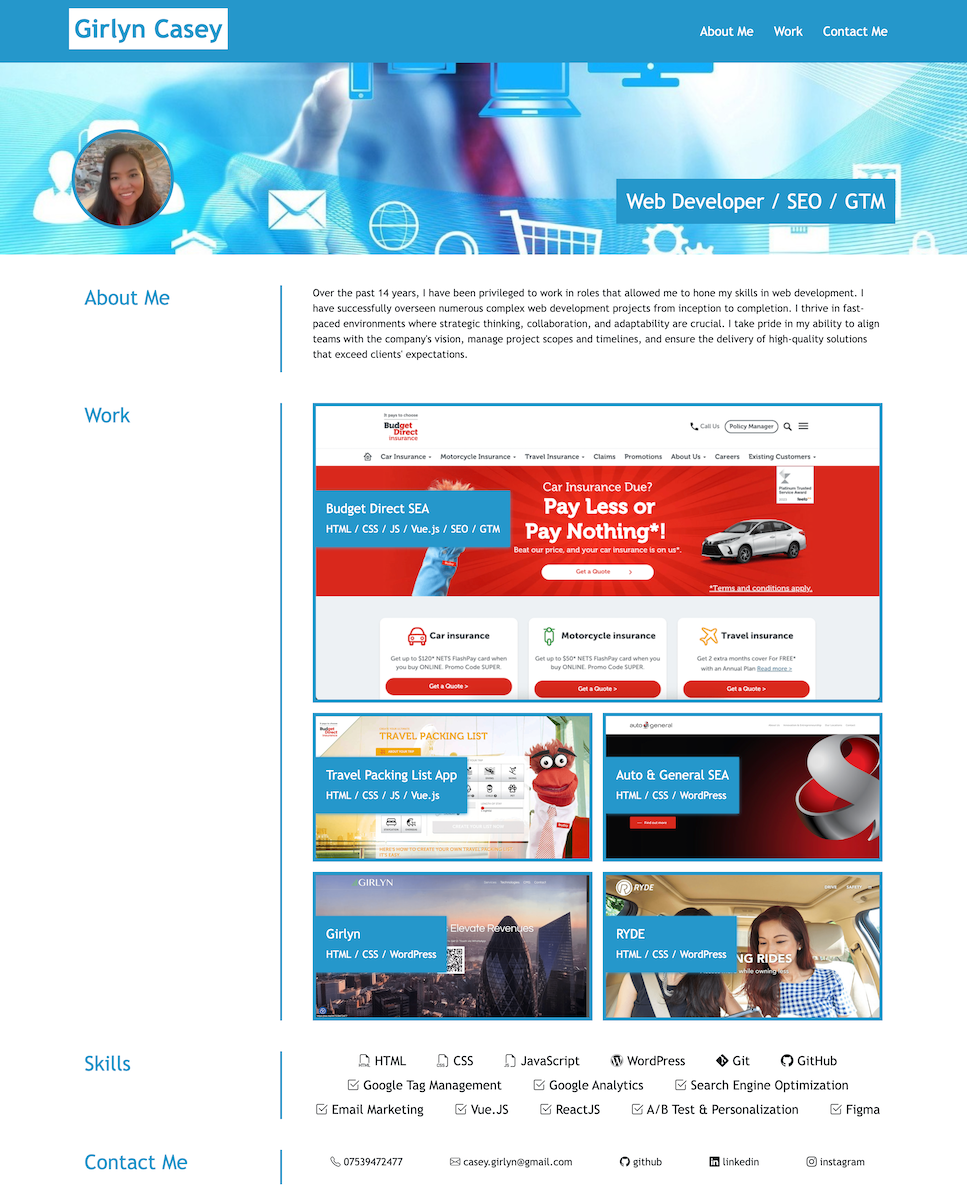
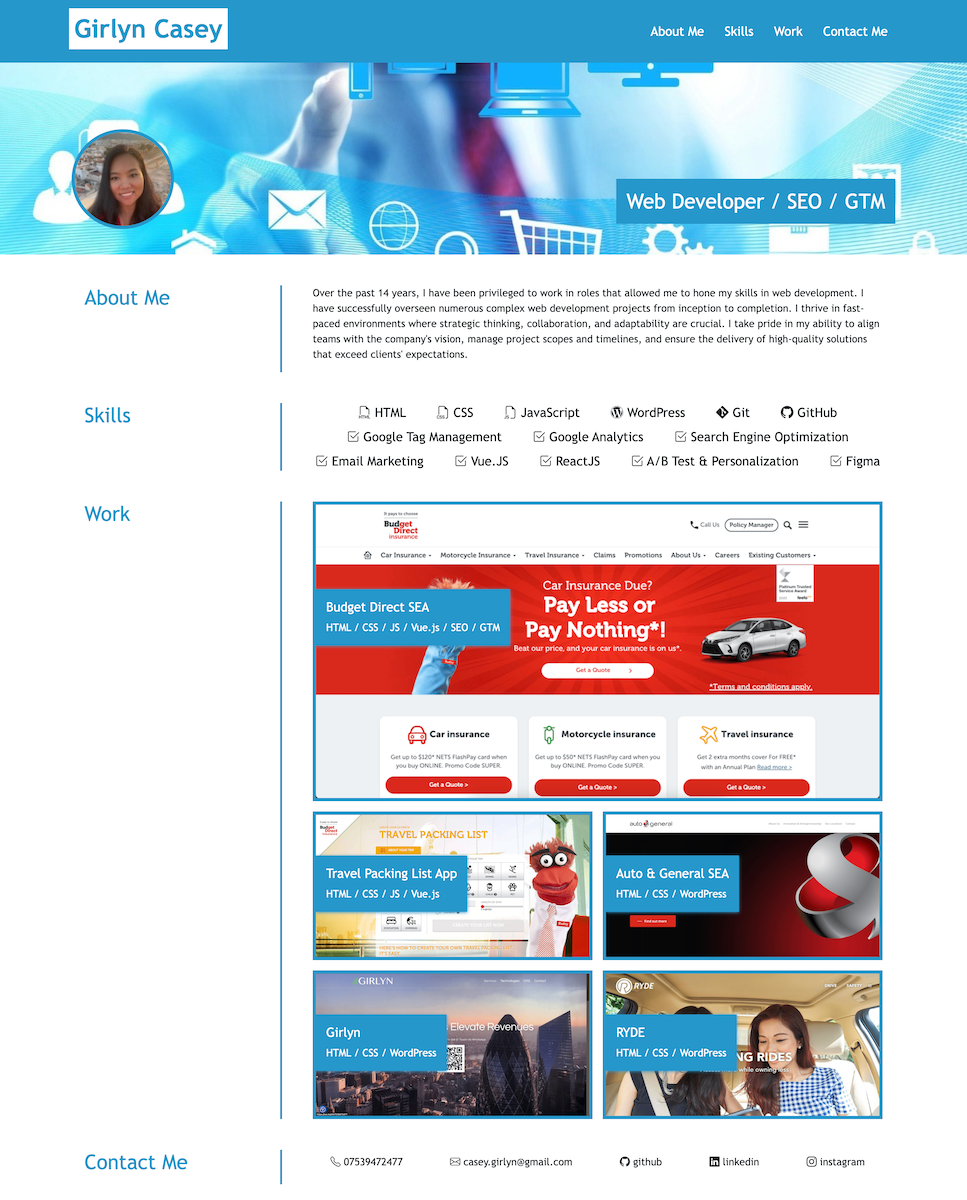
move skills section below about me and update screenshot

diff --git a/index.html b/index.html
@@ -34,6 +34,9 @@
                         <a class="nav-link active fs-5 text-white" aria-current="page" href="#about">About Me</a>
                     </li>
                     <li class="nav-item mx-2">
+                        <a class="nav-link fs-5 text-white" href="#skills">Skills</a>
+                    </li>
+                    <li class="nav-item mx-2">
                         <a class="nav-link fs-5 text-white" href="#work">Work</a>
                     </li>
                     <li class="nav-item mx-2">
@@ -73,6 +76,31 @@
                     project scopes and timelines, and ensure the delivery of
                     high-quality solutions that exceed clients' expectations.
                 </p>
+            </div>
+        </section>
+        <section id="skills" class="row p-4">
+            <div class="col-md-3">
+                <h2 class="primary-color">Skills</h2>
+            </div>
+            <div class="col-md-9 ps-md-5 border-start border-3">
+                <div class="column-gap-3 column-gap-md-5 row-gap-2 d-flex flex-wrap fs-5 justify-content-center mb-2">
+                    <span><i class="bi bi-filetype-html"></i> HTML</span>
+                    <span><i class="bi bi-filetype-css"></i> CSS</span>
+                    <span><i class="bi bi-filetype-js"></i> JavaScript</span>
+                    <span><i class="bi bi-wordpress"></i> WordPress</span>
+                    <span><i class="bi bi-git"></i> Git</span>
+                    <span><i class="bi bi-github"></i> GitHub</span>
+                </div>
+                <div class="column-gap-3 column-gap-md-5 row-gap-2 d-flex flex-wrap fs-5 justify-content-center">
+                    <span><i class="bi bi-check2-square"></i> Google Tag Management</span>
+                    <span><i class="bi bi-check2-square"></i> Google Analytics</span>
+                    <span><i class="bi bi-check2-square"></i> Search Engine Optimization</span>
+                    <span><i class="bi bi-check2-square"></i> Email Marketing</span>
+                    <span><i class="bi bi-check2-square"></i> Vue.JS</span>
+                    <span><i class="bi bi-check2-square"></i> ReactJS</span>
+                    <span><i class="bi bi-check2-square"></i> A/B Test & Personalization</span>
+                    <span><i class="bi bi-check2-square"></i> Figma</span>
+                </div>
             </div>
         </section>
         <section id="work" class="row p-4">
@@ -156,31 +184,6 @@
                         </a>
                     </div>
                     <!-- End card 5 -->
-                </div>
-            </div>
-        </section>
-        <section id="skills" class="row p-4">
-            <div class="col-md-3">
-                <h2 class="primary-color">Skills</h2>
-            </div>
-            <div class="col-md-9 ps-md-5 border-start border-3">
-                <div class="column-gap-3 column-gap-md-5 row-gap-2 d-flex flex-wrap fs-5 justify-content-center mb-2">
-                    <span><i class="bi bi-filetype-html"></i> HTML</span>
-                    <span><i class="bi bi-filetype-css"></i> CSS</span>
-                    <span><i class="bi bi-filetype-js"></i> JavaScript</span>
-                    <span><i class="bi bi-wordpress"></i> WordPress</span>
-                    <span><i class="bi bi-git"></i> Git</span>
-                    <span><i class="bi bi-github"></i> GitHub</span>
-                </div>
-                <div class="column-gap-3 column-gap-md-5 row-gap-2 d-flex flex-wrap fs-5 justify-content-center">
-                    <span><i class="bi bi-check2-square"></i> Google Tag Management</span>
-                    <span><i class="bi bi-check2-square"></i> Google Analytics</span>
-                    <span><i class="bi bi-check2-square"></i> Search Engine Optimization</span>
-                    <span><i class="bi bi-check2-square"></i> Email Marketing</span>
-                    <span><i class="bi bi-check2-square"></i> Vue.JS</span>
-                    <span><i class="bi bi-check2-square"></i> ReactJS</span>
-                    <span><i class="bi bi-check2-square"></i> A/B Test & Personalization</span>
-                    <span><i class="bi bi-check2-square"></i> Figma</span>
                 </div>
             </div>
         </section>
